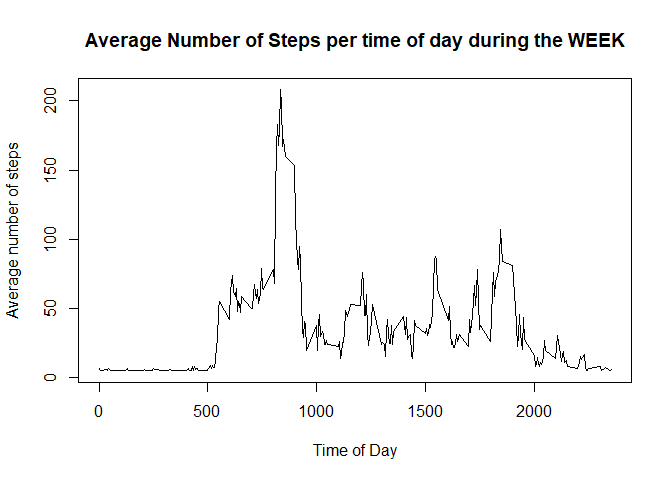
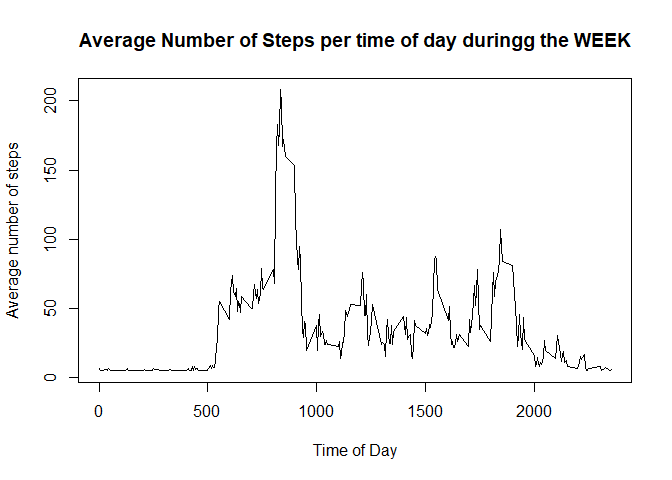
Committing final submission

Changed region(s): [[0.0938, 0.0625, 0.9375, 0.125]]

diff --git a/PA1_template.html b/PA1_template.html
@@ -430,8 +430,8 @@ weekenddata &lt;- subset(imputeddata,day == &quot;Saturday&quot; | day == &quot;
 weekintervalmean &lt;- weekdata%&gt;%
   group_by(interval) %&gt;%
   summarise(total = mean(steps, na.rm = TRUE))
-plot(weekintervalmean$interval, weekintervalmean$total, type = &quot;l&quot;, main = &quot;Average Number of Steps per time of day during the WEEK&quot;, xlab = &quot;Time of Day&quot;, ylab = &quot;Average number of steps&quot;)</code></pre>
[1 lines of base64/hex data omitted]
+plot(weekintervalmean$interval, weekintervalmean$total, type = &quot;l&quot;, main = &quot;Average Number of Steps per time of day duringg the WEEK&quot;, xlab = &quot;Time of Day&quot;, ylab = &quot;Average number of steps&quot;)</code></pre>
[1 lines of base64/hex data omitted]
 <pre class="r"><code>weekendintervalmean &lt;- weekenddata%&gt;%
   group_by(interval) %&gt;%
   summarise(total = mean(steps, na.rm = TRUE))

diff --git a/PA1_template.md b/PA1_template.md
@@ -103,7 +103,7 @@ weekenddata <- subset(imputeddata,day == "Saturday" | day == "Sunday")
 weekintervalmean <- weekdata%>%
   group_by(interval) %>%
   summarise(total = mean(steps, na.rm = TRUE))
-plot(weekintervalmean$interval, weekintervalmean$total, type = "l", main = "Average Number of Steps per time of day during the WEEK", xlab = "Time of Day", ylab = "Average number of steps")
+plot(weekintervalmean$interval, weekintervalmean$total, type = "l", main = "Average Number of Steps per time of day duringg the WEEK", xlab = "Time of Day", ylab = "Average number of steps")
 ```
 
 ![](PA1_template_files/figure-html/weekdays-1.png)<!-- -->
